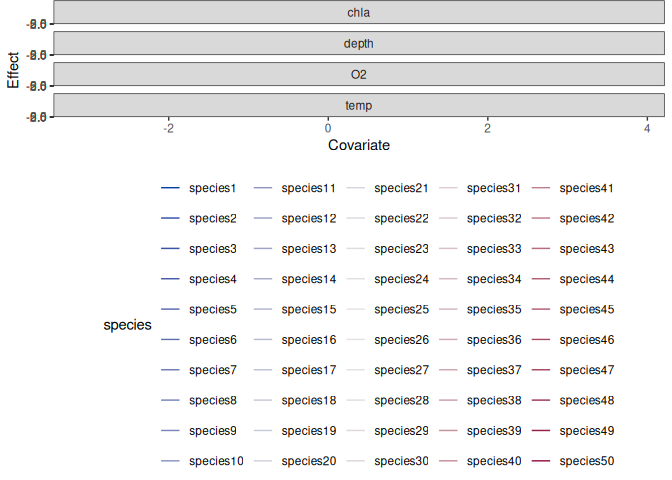
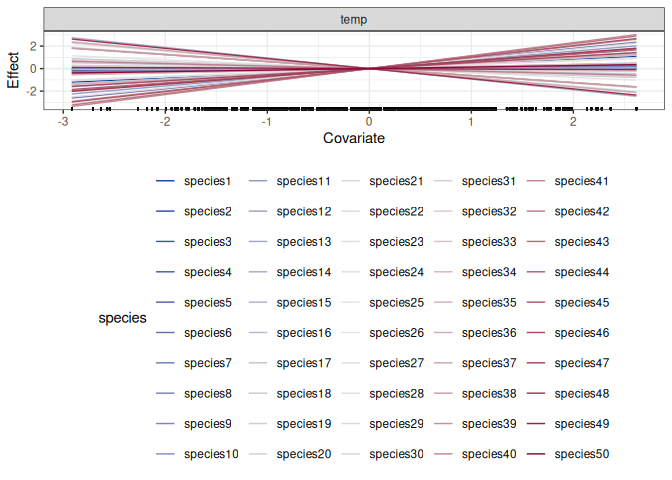
updating readme usage

diff --git a/README.md b/README.md
@@ -163,19 +163,19 @@ fitcbfm <- CBFM(y = simy,
 #> Updating all coefficients and dispersion/power parameters (this includes running an inner EM algorithm if appropriate).
 #> Updating between response correlation (covariance) matrices, G.
 #> Updating covariance matrices for basis functions, Sigma, if required.
-#> Iteration: 0  Difference in parameter estimates (mean squared error): 0.20748
+#> Iteration: 0  Difference in parameter estimates (mean squared error): 0.19057
 #> Updating all coefficients and dispersion/power parameters (this includes running an inner EM algorithm if appropriate).
 #> Updating between response correlation (covariance) matrices, G.
 #> Updating covariance matrices for basis functions, Sigma, if required.
-#> Iteration: 1  Difference in parameter estimates (mean squared error): 0.00193
+#> Iteration: 1  Difference in parameter estimates (mean squared error): 0.00181
 #> Updating all coefficients and dispersion/power parameters (this includes running an inner EM algorithm if appropriate).
 #> Updating between response correlation (covariance) matrices, G.
 #> Updating covariance matrices for basis functions, Sigma, if required.
-#> Iteration: 2  Difference in parameter estimates (mean squared error): 0.00021
+#> Iteration: 2  Difference in parameter estimates (mean squared error): 0.00024
 #> Updating all coefficients and dispersion/power parameters (this includes running an inner EM algorithm if appropriate).
 #> Updating between response correlation (covariance) matrices, G.
 #> Updating covariance matrices for basis functions, Sigma, if required.
-#> Iteration: 3  Difference in parameter estimates (mean squared error): 8e-05
+#> Iteration: 3  Difference in parameter estimates (mean squared error): 6e-05
 #> Calculating (components of) the covariance (standard error) matrix...
 ```
 
@@ -206,14 +206,14 @@ fitcbfm
 
 residuals(fitcbfm) %>% 
      str
-#>  num [1:500, 1:50] -0.803 0.418 -0.608 0.336 0.275 ...
+#>  num [1:500, 1:50] 0.19 0.205 0.366 0.311 0.272 ...
 #>  - attr(*, "dimnames")=List of 2
 #>   ..$ : chr [1:500] "units1" "units2" "units3" "units4" ...
 #>   ..$ : chr [1:50] "species1" "species2" "species3" "species4" ...
 
 predict(fitcbfm) %>% 
      str
-#>  num [1:500, 1:50] 1.407 0.33 0.44 0.682 0.968 ...
+#>  num [1:500, 1:50] 1.45 1.357 0.548 0.798 0.986 ...
 #>  - attr(*, "dimnames")=List of 2
 #>   ..$ : chr [1:500] "1" "2" "3" "4" ...
 #>   ..$ : chr [1:50] "species1" "species2" "species3" "species4" ...
@@ -223,37 +223,37 @@ predict(fitcbfm) %>%
 varpart(fitcbfm) 
 #> $varpart_X
 #>  species1  species2  species3  species4  species5  species6  species7  species8 
-#> 0.8369517 0.7897832 0.8579931 0.9393983 0.8516509 0.5984185 0.7965301 0.8856998 
+#> 0.8356968 0.8071236 0.8215379 0.7860160 0.7869573 0.4406866 0.8126370 0.7011606 
 #>  species9 species10 species11 species12 species13 species14 species15 species16 
-#> 0.6323820 0.7933322 0.7480646 0.7207919 0.8874016 0.7974287 0.7485642 0.9083218 
+#> 0.4978361 0.7652074 0.7958052 0.7339228 0.8896515 0.7798912 0.6957831 0.8456755 
 #> species17 species18 species19 species20 species21 species22 species23 species24 
-#> 0.5443042 0.6459431 0.6947710 0.8916497 0.6153883 0.6540311 0.7265042 0.6116039 
+#> 0.6977357 0.6513606 0.7209768 0.8607639 0.4817789 0.6256921 0.7206322 0.7108684 
 #> species25 species26 species27 species28 species29 species30 species31 species32 
-#> 0.6827461 0.8427974 0.8357903 0.7442542 0.8259807 0.6957625 0.8076055 0.8695537 
+#> 0.7010970 0.8525702 0.7314687 0.7959361 0.8213233 0.3949826 0.6820069 0.8604772 
 #> species33 species34 species35 species36 species37 species38 species39 species40 
-#> 0.8511184 0.8377428 0.8661446 0.6947221 0.8104156 0.7565808 0.8300096 0.6170683 
+#> 0.7709989 0.8352444 0.8459971 0.6991546 0.7288195 0.8322753 0.8300749 0.8318143 
 #> species41 species42 species43 species44 species45 species46 species47 species48 
-#> 0.7375907 0.8856616 0.8008515 0.8508559 0.9152972 0.7403227 0.8300071 0.7685296 
+#> 0.5631777 0.9095532 0.8254126 0.8186288 0.8997527 0.7564872 0.8788737 0.8344639 
 #> species49 species50 
-#> 0.5993134 0.6179018 
+#> 0.6750379 0.6476261 
 #> 
 #> $varpart_B_space
 #>   species1   species2   species3   species4   species5   species6   species7 
-#> 0.16304825 0.21021682 0.14200687 0.06060172 0.14834906 0.40158153 0.20346994 
+#> 0.16430318 0.19287642 0.17846213 0.21398397 0.21304266 0.55931340 0.18736296 
 #>   species8   species9  species10  species11  species12  species13  species14 
-#> 0.11430015 0.36761800 0.20666783 0.25193537 0.27920808 0.11259835 0.20257127 
+#> 0.29883940 0.50216386 0.23479262 0.20419480 0.26607721 0.11034855 0.22010882 
 #>  species15  species16  species17  species18  species19  species20  species21 
-#> 0.25143577 0.09167819 0.45569576 0.35405690 0.30522899 0.10835028 0.38461171 
+#> 0.30421685 0.15432455 0.30226434 0.34863938 0.27902323 0.13923614 0.51822106 
 #>  species22  species23  species24  species25  species26  species27  species28 
-#> 0.34596890 0.27349585 0.38839608 0.31725391 0.15720264 0.16420974 0.25574584 
+#> 0.37430794 0.27936784 0.28913157 0.29890305 0.14742978 0.26853131 0.20406385 
 #>  species29  species30  species31  species32  species33  species34  species35 
-#> 0.17401929 0.30423748 0.19239452 0.13044627 0.14888165 0.16225725 0.13385545 
+#> 0.17867669 0.60501736 0.31799313 0.13952275 0.22900112 0.16475558 0.15400292 
 #>  species36  species37  species38  species39  species40  species41  species42 
-#> 0.30527793 0.18958441 0.24341922 0.16999038 0.38293171 0.26240931 0.11433839 
+#> 0.30084541 0.27118055 0.16772472 0.16992513 0.16818573 0.43682232 0.09044683 
 #>  species43  species44  species45  species46  species47  species48  species49 
-#> 0.19914850 0.14914415 0.08470282 0.25967734 0.16999293 0.23147044 0.40068655 
+#> 0.17458739 0.18137117 0.10024730 0.24351284 0.12112634 0.16553610 0.32496205 
 #>  species50 
-#> 0.38209822
+#> 0.35237387
 ```
 
 ``` r
@@ -262,7 +262,8 @@ geteffects <- gratia_effects(fitcbfm)
 geteffects$all_parametric_effects$species <- geteffects$all_parametric_effects$species %>%
      fct_inorder
 
-ggplot(geteffects$all_parametric_effects, 
+ggplot(geteffects$all_parametric_effects %>% 
+            filter(.term == "temp"), 
        aes(x = .value, y = .partial, color = species)) +
      geom_line() +
      geom_rug(aes(x = .value), sides = "b", show.legend = FALSE, color = "black") +
@@ -284,12 +285,12 @@ orddat <- data.frame(dat[,c("x","y")],
 orddat %>% 
      head
 #>           x         y       Axis1       Axis2
-#> 1 2.4102361 1.8604797 -0.12724338 -0.03072208
-#> 2 4.7484216 3.6814821  0.48497693  0.05491284
-#> 3 0.4196939 4.4302971 -0.30419765 -0.16742371
-#> 4 3.8437889 4.0704522 -0.12944326 -0.50118818
-#> 5 2.3863523 3.5680672 -0.05917183 -0.27337871
-#> 6 3.1606837 0.7024926  0.42912238  0.57712384
+#> 1 2.4102361 1.8604797 -0.31475024  0.02770395
+#> 2 4.7484216 3.6814821  0.64813537  0.04050491
+#> 3 0.4196939 4.4302971 -0.26628658 -0.09829066
+#> 4 3.8437889 4.0704522  0.05458624 -0.58213466
+#> 5 2.3863523 3.5680672  0.03202522 -0.35585071
+#> 6 3.1606837 0.7024926  0.31367274  0.61447854
 
 ggplot(orddat, aes(x = x, y = y, color = Axis1)) +
      geom_point() +
